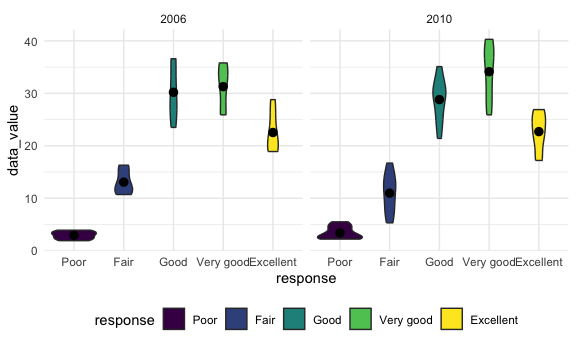
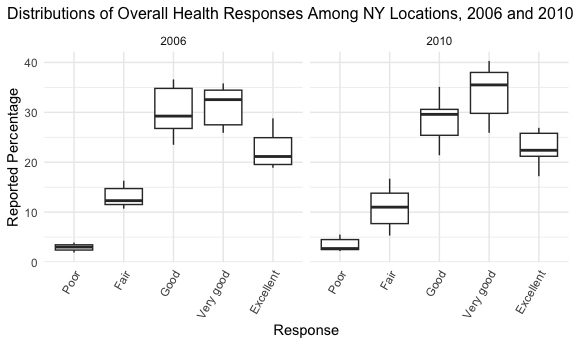
Written responses for Problems 2 and 3

diff --git a/p8105_hw3_cjd2195.md b/p8105_hw3_cjd2195.md
@@ -235,9 +235,9 @@ tidy_brfss |>
   ggplot(aes(x = year, y = average_state_prevalence, color = fct_reorder(location_abbr, average_state_prevalence))) +
   geom_line() + 
   labs(
-    title = "Average Percentage of Self-Reported Excellent Health by State, 2002-2010",
+    title = "Average Percentage of Self-Reported 'Excellent' Health Status by State, 2002-2010",
     x = "Year",
-    y = "Prevalence",
+    y = "Percentage Reported",
     color = "State"
   ) + 
   theme(plot.title = element_text(size = 12), plot.title.position = "plot")
@@ -291,6 +291,29 @@ tidy_brfss |>
   filter(year == 2006 | year == 2010) |> 
   filter(location_abbr == "NY") |> 
   group_by(year, response) |> 
+  ggplot(aes(x = data_value, y = response)) +
+  geom_density_ridges(aes(fill = response)) +
+  facet_grid(~year) +
+  labs(
+    title = "Distributions of Overall Health Responses Among NY Locations, 2006 and 2010",
+    x = "Reported Percentage",
+    y = "Response",
+    fill = "Response"
+  ) +
+  theme(plot.title = element_text(size = 12), plot.title.position = "plot")
+```
+
+    ## Picking joint bandwidth of 2.1
+
+    ## Picking joint bandwidth of 2.03
+
+<img src="p8105_hw3_cjd2195_files/figure-gfm/unnamed-chunk-9-2.png" width="90%" />
+
+``` r
+tidy_brfss |> 
+  filter(year == 2006 | year == 2010) |> 
+  filter(location_abbr == "NY") |> 
+  group_by(year, response) |> 
   ggplot(aes(x = response, y = data_value)) +
   geom_boxplot() +
   facet_grid(~year) +
@@ -303,19 +326,6 @@ tidy_brfss |>
         axis.text.x = element_text(angle = 60, hjust = 1))
 ```
 
-<img src="p8105_hw3_cjd2195_files/figure-gfm/unnamed-chunk-9-2.png" width="90%" />
-
-``` r
-tidy_brfss |> 
-  filter(year == 2006 | year == 2010) |> 
-  filter(location_abbr == "NY") |> 
-  group_by(year, response) |> 
-  ggplot(aes(x = response, y = data_value)) + 
-  geom_violin(aes(fill = response))+
-  facet_grid(~year) + 
-  stat_summary(fun = "mean")
-```
-
 <img src="p8105_hw3_cjd2195_files/figure-gfm/unnamed-chunk-9-3.png" width="90%" />
 
 ``` r
@@ -323,27 +333,44 @@ tidy_brfss |>
   filter(year == 2006 | year == 2010) |> 
   filter(location_abbr == "NY") |> 
   group_by(year, response) |> 
-  ggplot(aes(x = data_value, y = response)) +
-  geom_density_ridges(aes(fill = response)) +
-  facet_grid(~year)
+  ggplot(aes(x = response, y = data_value)) + 
+  geom_violin(aes())+
+  facet_grid(~year) + 
+  stat_summary(fun = "mean") +
+  labs(
+    title = "Distributions of Overall Health Responses Among NY Locations, 2006 and 2010",
+    x = "Response",
+    y = "Reported Percentage"
+  ) + 
+  theme(plot.title = element_text(size = 12), plot.title.position = "plot",
+        axis.text.x = element_text(angle = 60, hjust = 1))
 ```
-
-    ## Picking joint bandwidth of 2.1
-
-    ## Picking joint bandwidth of 2.03
 
 <img src="p8105_hw3_cjd2195_files/figure-gfm/unnamed-chunk-9-4.png" width="90%" />
 
-I generated two plots for this question, and I think each of them has
-their own merit depending on what the reader is looking for from a
-visualization of this data. The first plot is a density plot, and
-provides a good “quick” visual that generally shows us how the
-distributions differed between the two time points, but the boxplot
-provides more information about the mean, IQR, and outliers and is
-(probably) preferred by those who really want to extract these details
-from a visual.
+I generated a few plots for this question, because I wanted to see which
+one I’d find most informative if I were just a random person interested
+in looking at the distribution. I think each of them has their own merit
+depending on what a reader is looking for from a visualization of this
+data. The first plot is a density plot, and provides a good “quick”
+visual that generally shows us how the distributions differed between
+the two time points, but the overlap is a little busy. The ridgeplot is
+a good alternative if I’m set on looking at the shape of the
+distributions (assessing normality, bimodal, etc.) but I don’t think
+that’s super helpful here because I’m mostly just trying to compare the
+different responses to one another rather than understand their
+individual distributions. The boxplot provides more immediately
+accessible information about the mean, IQR, and outliers, as does the
+violin plot, albeit in a more ~ aesthetically pleasing ~ kind of way. I
+think I personally prefer the boxplot though.
 
 ## Question 3
+
+Let’s read, clean, tidy, and join some data! I’m going to both recode
+the sex and education levels, as well as relevel them as factor
+variables to help me later on. Then I’ll join the datasets, filter by
+the specified age, and also drop any rows with NAs in the demographic
+columns.
 
 ``` r
 nhanes_accel = read_csv("data/nhanes_accel.csv") |> 
@@ -416,21 +443,39 @@ nhanes_combined |>
 | High school equivalent |   34 |     23 |
 | More than high school  |   54 |     59 |
 
+First up is summarizing the counts of participants by age and sex.
+
 ``` r
 nhanes_combined |> 
   group_by(sex, education) |> 
-  ggplot(aes(x = education, y = age, fill = sex)) + 
+  ggplot(aes(x = education, y = age, color = sex)) + 
   geom_boxplot() +
   labs(
     title = "NHANES Accelerometer Age Distrubtions by Sex and Education Level",
     x = "Highest Education Level",
     y = "Age",
-    fill = "Sex"
+    color = "Sex"
   ) +
   theme(plot.title = element_text(size = 12), plot.title.position = "plot")
 ```
 
-<img src="p8105_hw3_cjd2195_files/figure-gfm/unnamed-chunk-11-1.png" width="90%" />
+<img src="p8105_hw3_cjd2195_files/figure-gfm/unnamed-chunk-12-1.png" width="90%" />
+
+Second up is making a plot to show the distribution of ages of
+participants by both sex and education level. I have to admit I’m not a
+huge fan of these two colors, but will defer to the wish to use the
+viridis color palette.
+
+Our data seem to be saying that there are roughly the same number of men
+and women in the study with a highest education level of “less than
+high-school”, and their average age is roughly the same as is the range
+and IQR of ages. Noticeably there are more men than women with a
+high-school equivalent education, and the average age and IQR of age of
+women in this category is higher than men, though the range of ages is
+about the same. Finally, there are roughly similiar numbers of men and
+women whose education level extends beyond high school, and in this
+group, the men’s average age is higher than the women’s while the range
+and IQR are roughly the same.
 
 ### Question 3B
 
@@ -466,7 +511,47 @@ nhanes_combined |>
 
     ## `geom_smooth()` using method = 'loess' and formula = 'y ~ x'
 
-<img src="p8105_hw3_cjd2195_files/figure-gfm/unnamed-chunk-12-1.png" width="90%" />
+<img src="p8105_hw3_cjd2195_files/figure-gfm/unnamed-chunk-13-1.png" width="90%" />
+
+There are a lot of steps involved in this part of the question! Firstly,
+I’m going to create two summary variables, one that sums all activity
+and another that averages all activity. (In retrospect I realize that
+the mean is sort of useless because it’s just a scaled version of the
+sum…but it is nice because it makes the values smaller so I’m going to
+use it in my visualization.) Now I want to group by sex and education
+because I am interested in knowing how activity levels vary among these
+groups. Finally, time to plot!
+
+Our plots show some interesting trends. For the “less than high school”
+education level, we can see an overall decrease in measured activity
+levels as age increases, but both men and women see a change in the
+trend as they approach 60 years (men see an uptick and women see a
+plateau). Though women start with higher mean activity levels than men
+before the age of 30 in this category, both men and women ultimately
+reach similar levels around 80 years of age. The difference between
+final and initial activity levels (for both men and women) is the
+greatest for this educational level compared to the others.
+
+The second facet, the “high school equivalent” group, also shows an
+overall decrease in activity levels for both women and men, but the
+trends do not take the same shape as those in the previous group. Women
+see an increase between the ages of 20 and 40 years, then a decline into
+their 60s, followed by an uptick in their 70s before ultimatley
+decreasing to their lowest levels at the age of 80. Men don’t have the
+same initial uptick as they approach their 40s, but do show the same
+decline into their 60s, and ultimately have similar levels to women as
+they approach 80.
+
+Last but not least, the “more than high school” group shows the most
+stable overall trends as compared to the other groups. The initial
+activity levels at age 20 for both men and women are lower than those
+for those in the “less than high school” group, but are roughly the same
+as the “high school equivalent” group. However, for both men and women,
+they stay roughly the same to age 50; here, men show a steady decline in
+levels until they reach their 80s, and women continue with the same
+initial level until their 60s. The difference between the final and
+initial mean activity levels is similar to that in the high-school
+equivalent educaiton group.
 
 ### Question 3C
 
@@ -498,4 +583,47 @@ nhanes_combined |>
     ## the `.groups` argument.
     ## `geom_smooth()` using method = 'gam' and formula = 'y ~ s(x, bs = "cs")'
 
-<img src="p8105_hw3_cjd2195_files/figure-gfm/unnamed-chunk-13-1.png" width="90%" />
+<img src="p8105_hw3_cjd2195_files/figure-gfm/unnamed-chunk-14-1.png" width="90%" />
+
+At a 10,000 foot glance, the overall trends of 24-hour activity levels
+are the same among educational groups and sexes: we see a nadir just
+before 5:00AM, a peak sometime between 10:00AM and 8:00PM, then a
+decline in activity that we can presume continues until the next
+morning’s nadir. However, there are some subtle differences to note: for
+the “less than high school group”, there are two parts to the descending
+curve after reaching the peak level: a slight decrease through around
+8:00PM, then a steeper decrease through midnight. The high-school
+equivalent and more than high school groups appear to have more
+prominent secondary peaks, around 8:00PM, then followed by a similar
+steep decrease in activity through midnight. The local minimum appears
+at roughly the same time for each group, 3:00PM. It appears that the
+high school equivalent education group has the lowest peak activity
+levels throughout the day, and the less than high school group the
+highest.
+
+Thus far I’ve touched on differences by educational level; for sex,
+differences are most apparent in the “more than high school” educational
+group. Women have higher activity levels than men, and appear to reach
+that peak earlier than men (slightly before 10:00AM compared to roughly
+12:00noon.) Women in the high school equivalent group also have higher
+activity levels, but most distinctly in the morning, where they too
+reach their peak sooner than men. Finally, women in the less than high
+school group also have higher peak levels than men (though to a lesser
+degree), but ever so slightly lower levels during ascent and descent.
+They also appear to have less activity thoughout the early morning
+hours.
+
+Conlcusions I feel comfortable making, without having performed any
+statistical analyses: activity is lowest early in the morning, after
+midnight until roughly 5AM, for all educational levels. This most likely
+corresponds to sleep. Peak activity levels vary by both sex and
+education level; appear to have higher peak mean activity levels than
+men, and those with less than a high school educaiton have higher peaks
+than those in the high school or more than high school education groups.
+The high-school equivalent and more than high school groups appear to
+have a secondary peak after a small decrease after the first peak; it
+would be interesting to observe them and understand what the dip and
+peak corresponds to (maybe post-prandial sleepiness, followed by a
+resurgence in energy?). I’d be curious to know, more importantly, why I
+*don’t* see this dip and secondary peak in the less than high-school
+group.
